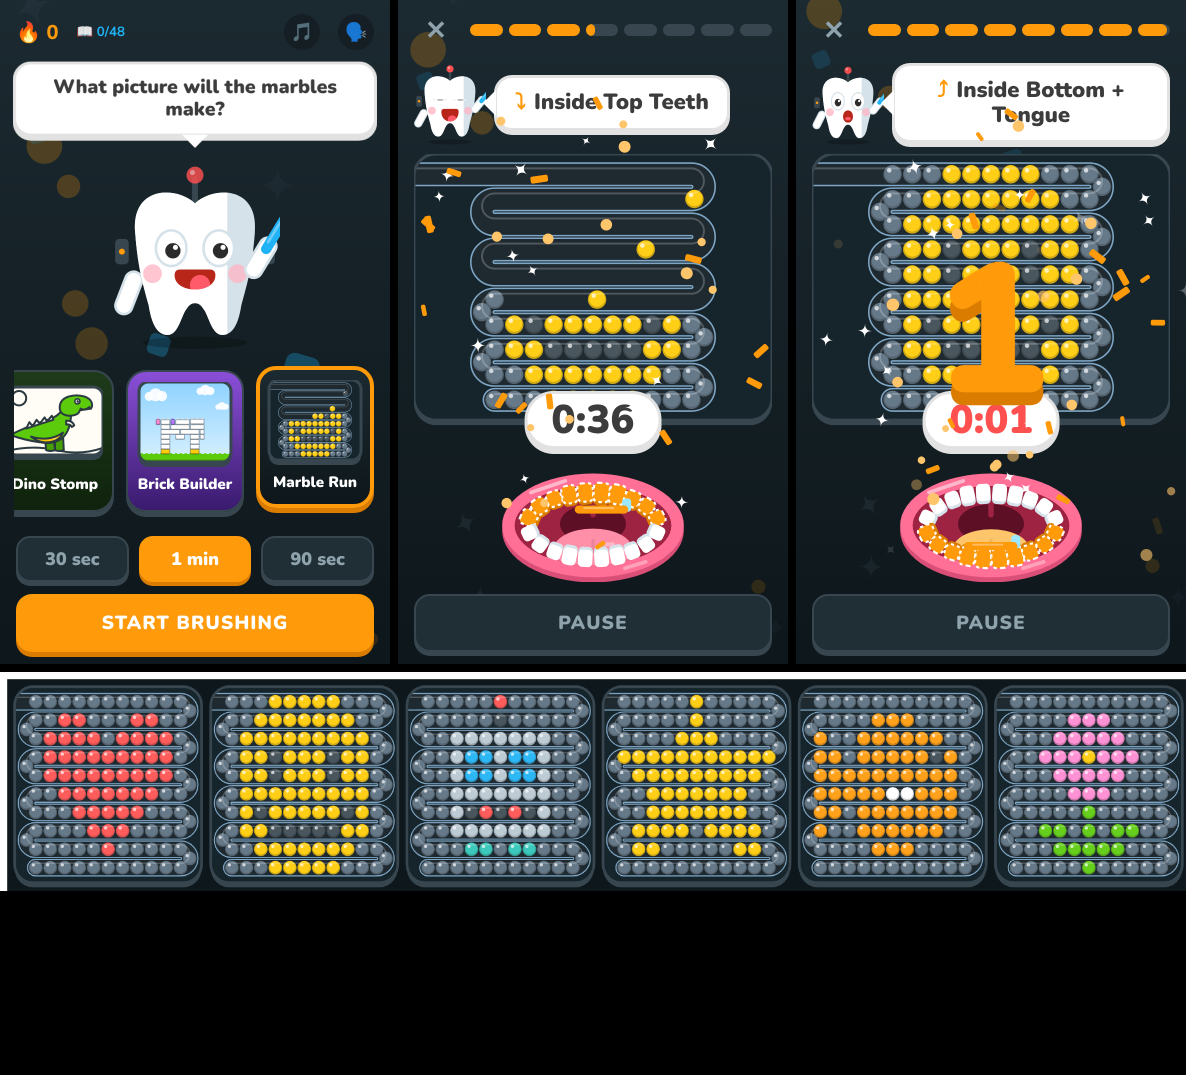
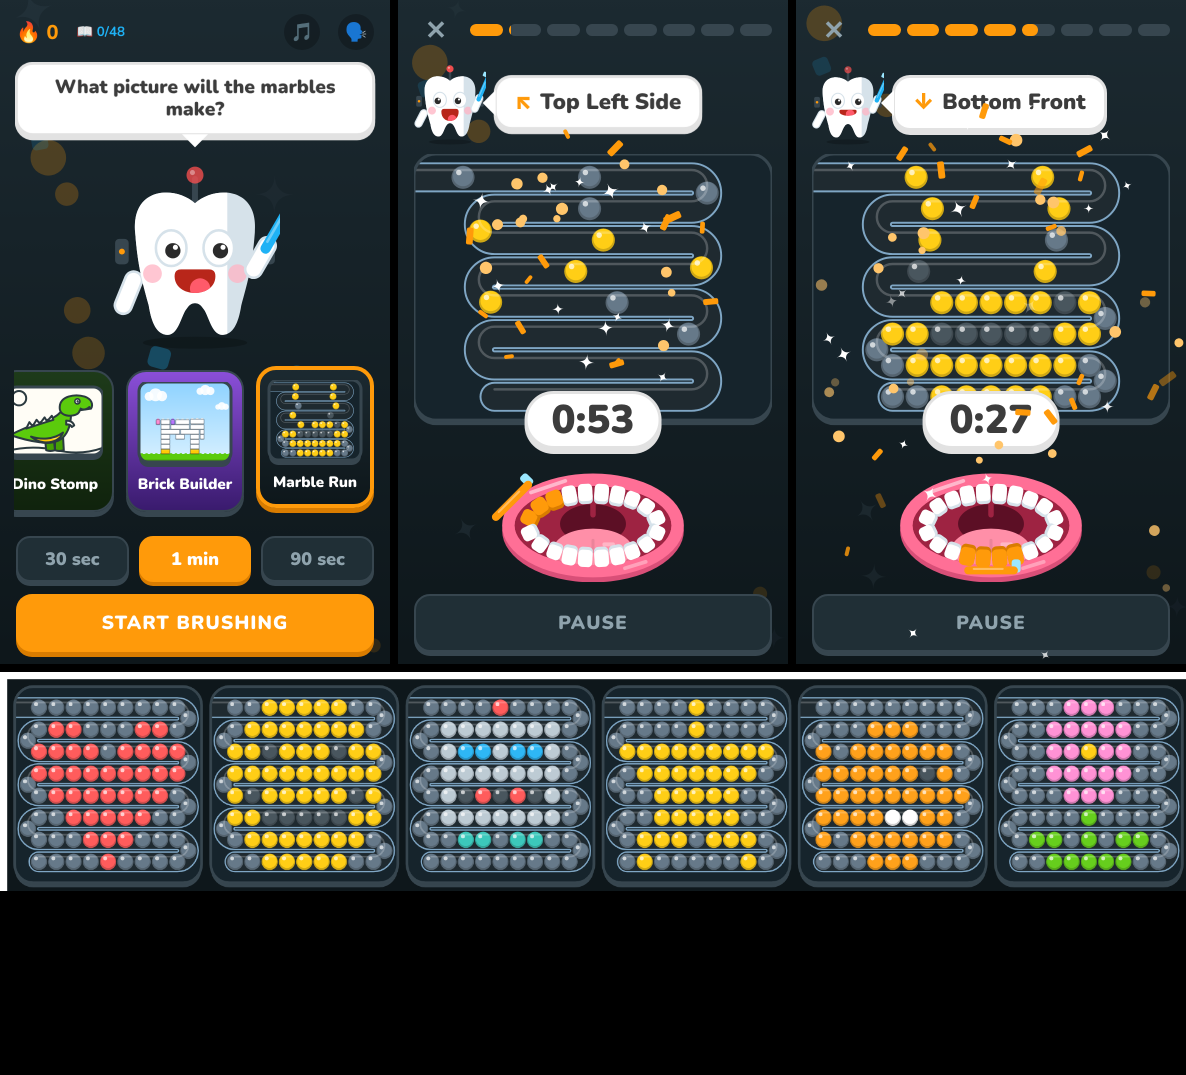
Web: Marble Run with bigger marbles rolling as a gentle stream
Tube is now 9x8 (79 marbles instead of 119), so marbles and tube are larger.
Marbles roll at a steady, slower speed as a stream instead of each one
sprinting the whole tube: the first takes about a fifth of the timer to
reach the bottom, then the rest arrive evenly until the tube is full.

Claude-Session: https://claude.ai/code/session_01DcateeMTnru1jWATFfvpC7

diff --git a/docs/app.js b/docs/app.js
@@ -1582,16 +1582,16 @@ function drawBrickTimer(ctx, w, h, sess, t) {
 // ---- Marble Run: marbles roll down a snaking tube and line up into a picture
 const TUBE_BG = "#5B6F80";
 const TUBE_PICS = {
-  heart: ["...........", "..RR...RR..", ".RRRR.RRRR.", ".RRRRRRRRR.", ".RRRRRRRRR.", "..RRRRRRR..", "...RRRRR...", "....RRR....", ".....R.....", "..........."],
-  smiley: ["...YYYYY...", "..YYYYYYY..", ".YYYYYYYYY.", ".YYDYYYDYY.", ".YYDYYYDYY.", ".YYYYYYYYY.", ".YDYYYYYDY.", ".YYDDDDDYY.", "..YYYYYYY..", "...YYYYY..."],
-  robot: [".....R.....", ".....D.....", "..LLLLLLL..", "..LBBLBBL..", "..LBBLBBL..", "..LLLLLLL..", "..LDRDRDL..", "..LLLLLLL..", "...TT.TT...", "..........."],
-  star: [".....Y.....", ".....Y.....", "....YYY....", "YYYYYYYYYYY", ".YYYYYYYYY.", "..YYYYYYY..", "..YYYYYYY..", ".YYYY.YYYY.", ".YY.....YY.", "..........."],
-  fish: ["...........", "....OOO....", "O..OOOOOO..", "OO.OOOOODO.", "OOOOOOOOOO.", "OOOOOWWOOO.", "OO.OOOOOOO.", "O..OOOOOO..", "....OOO....", "..........."],
-  flower: ["...........", "....KKK....", "...KKKKK...", "..KKKYKKK..", "...KKKKK...", "....KKK....", ".....G.....", "..GG.G.GG..", "...GGGGG...", ".....G....."],
+  heart: [".........", ".RR...RR.", "RRRR.RRRR", "RRRRRRRRR", ".RRRRRRR.", "..RRRRR..", "...RRR...", "....R...."],
+  smiley: ["..YYYYY..", ".YYYYYYY.", "YYDYYYDYY", "YYYYYYYYY", "YDYYYYYDY", "YYDDDDDYY", ".YYYYYYY.", "..YYYYY.."],
+  robot: ["....R....", ".LLLLLLL.", ".LBBLBBL.", ".LLLLLLL.", ".LDRDRDL.", ".LLLLLLL.", "..TT.TT..", "........."],
+  star: ["....Y....", "....Y....", "YYYYYYYYY", ".YYYYYYY.", "..YYYYY..", "..YYYYY..", ".YYY.YYY.", ".Y.....Y."],
+  fish: [".........", "...OOO...", "O.OOOOOO.", "OOOOOODO.", "OOOOOOOOO", "OOOOWWOO.", "O.OOOOOO.", "...OOO..."],
+  flower: ["...KKK...", "..KKKKK..", "..KKYKK..", "..KKKKK..", "...KKK...", "....G....", ".GG.G.GG.", "..GGGGG.."],
 };
 const TUBE_ORDER = ["heart", "smiley", "robot", "star", "fish", "flower"];
 function tubeGeometry(x, y, w, h) {
-  const C = 11, R = 10, d = Math.min(w * 0.95 / (C + 1.273), h * 0.94 / ((R - 1) * 1.273 + 1.25)), s = d * 4 / Math.PI;   // bend arc = exactly 2 marbles
+  const C = 9, R = 8, d = Math.min(w * 0.95 / (C + 1.273), h * 0.94 / ((R - 1) * 1.273 + 1.25)), s = d * 4 / Math.PI;   // bend arc = exactly 2 marbles
   const xl = x + (w - (C - 1) * d) / 2, xr = xl + (C - 1) * d, y0 = y + (h - ((R - 1) * s)) / 2;
   const startX = x - d, lead = xl - startX, rowLen = (C + 1) * d;
   const N = R * C + (R - 1), total = lead + (R - 1) * rowLen + (C - 1) * d;
@@ -1641,10 +1641,13 @@ function drawMarbleTube(ctx, id, x, y, w, h, e, duration, t) {
   G.path(ctx); ctx.lineWidth = d * 1.22; ctx.strokeStyle = "#7FA6C4"; ctx.stroke();
   G.path(ctx); ctx.lineWidth = d * 1.06; ctx.strokeStyle = "#0E1A21"; ctx.stroke();
   // marbles: marble i ends in slot N-1-i, so the tube fills from the bottom end backward
-  const finish = duration * 0.985, speed = G.total / 2.4;
+  // A steady stream at a gentle rolling speed: the first marble takes a while to wind down to the bottom,
+  // then the rest keep arriving one after another until the tube is full.
+  const finish = duration * 0.985, firstTrip = Math.min(duration * 0.2, 14), speed = G.slotDist(G.N - 1) / firstTrip;
+  const gapTime = (finish - firstTrip) / (G.N - 1);
   let landed = 0;
   for (let i = 0; i < G.N; i++) {
-    const k = G.N - 1 - i, target = G.slotDist(k), land = (i + 1) / G.N * finish, enter = land - target / speed;
+    const k = G.N - 1 - i, target = G.slotDist(k), land = firstTrip + i * gapTime, enter = land - target / speed;
     if (e < enter) break;
     const dist = Math.min((e - enter) * speed, target);
     if (e >= land) landed++;

diff --git a/web/app.js b/web/app.js
@@ -1582,16 +1582,16 @@ function drawBrickTimer(ctx, w, h, sess, t) {
 // ---- Marble Run: marbles roll down a snaking tube and line up into a picture
 const TUBE_BG = "#5B6F80";
 const TUBE_PICS = {
-  heart: ["...........", "..RR...RR..", ".RRRR.RRRR.", ".RRRRRRRRR.", ".RRRRRRRRR.", "..RRRRRRR..", "...RRRRR...", "....RRR....", ".....R.....", "..........."],
-  smiley: ["...YYYYY...", "..YYYYYYY..", ".YYYYYYYYY.", ".YYDYYYDYY.", ".YYDYYYDYY.", ".YYYYYYYYY.", ".YDYYYYYDY.", ".YYDDDDDYY.", "..YYYYYYY..", "...YYYYY..."],
-  robot: [".....R.....", ".....D.....", "..LLLLLLL..", "..LBBLBBL..", "..LBBLBBL..", "..LLLLLLL..", "..LDRDRDL..", "..LLLLLLL..", "...TT.TT...", "..........."],
-  star: [".....Y.....", ".....Y.....", "....YYY....", "YYYYYYYYYYY", ".YYYYYYYYY.", "..YYYYYYY..", "..YYYYYYY..", ".YYYY.YYYY.", ".YY.....YY.", "..........."],
-  fish: ["...........", "....OOO....", "O..OOOOOO..", "OO.OOOOODO.", "OOOOOOOOOO.", "OOOOOWWOOO.", "OO.OOOOOOO.", "O..OOOOOO..", "....OOO....", "..........."],
-  flower: ["...........", "....KKK....", "...KKKKK...", "..KKKYKKK..", "...KKKKK...", "....KKK....", ".....G.....", "..GG.G.GG..", "...GGGGG...", ".....G....."],
+  heart: [".........", ".RR...RR.", "RRRR.RRRR", "RRRRRRRRR", ".RRRRRRR.", "..RRRRR..", "...RRR...", "....R...."],
+  smiley: ["..YYYYY..", ".YYYYYYY.", "YYDYYYDYY", "YYYYYYYYY", "YDYYYYYDY", "YYDDDDDYY", ".YYYYYYY.", "..YYYYY.."],
+  robot: ["....R....", ".LLLLLLL.", ".LBBLBBL.", ".LLLLLLL.", ".LDRDRDL.", ".LLLLLLL.", "..TT.TT..", "........."],
+  star: ["....Y....", "....Y....", "YYYYYYYYY", ".YYYYYYY.", "..YYYYY..", "..YYYYY..", ".YYY.YYY.", ".Y.....Y."],
+  fish: [".........", "...OOO...", "O.OOOOOO.", "OOOOOODO.", "OOOOOOOOO", "OOOOWWOO.", "O.OOOOOO.", "...OOO..."],
+  flower: ["...KKK...", "..KKKKK..", "..KKYKK..", "..KKKKK..", "...KKK...", "....G....", ".GG.G.GG.", "..GGGGG.."],
 };
 const TUBE_ORDER = ["heart", "smiley", "robot", "star", "fish", "flower"];
 function tubeGeometry(x, y, w, h) {
-  const C = 11, R = 10, d = Math.min(w * 0.95 / (C + 1.273), h * 0.94 / ((R - 1) * 1.273 + 1.25)), s = d * 4 / Math.PI;   // bend arc = exactly 2 marbles
+  const C = 9, R = 8, d = Math.min(w * 0.95 / (C + 1.273), h * 0.94 / ((R - 1) * 1.273 + 1.25)), s = d * 4 / Math.PI;   // bend arc = exactly 2 marbles
   const xl = x + (w - (C - 1) * d) / 2, xr = xl + (C - 1) * d, y0 = y + (h - ((R - 1) * s)) / 2;
   const startX = x - d, lead = xl - startX, rowLen = (C + 1) * d;
   const N = R * C + (R - 1), total = lead + (R - 1) * rowLen + (C - 1) * d;
@@ -1641,10 +1641,13 @@ function drawMarbleTube(ctx, id, x, y, w, h, e, duration, t) {
   G.path(ctx); ctx.lineWidth = d * 1.22; ctx.strokeStyle = "#7FA6C4"; ctx.stroke();
   G.path(ctx); ctx.lineWidth = d * 1.06; ctx.strokeStyle = "#0E1A21"; ctx.stroke();
   // marbles: marble i ends in slot N-1-i, so the tube fills from the bottom end backward
-  const finish = duration * 0.985, speed = G.total / 2.4;
+  // A steady stream at a gentle rolling speed: the first marble takes a while to wind down to the bottom,
+  // then the rest keep arriving one after another until the tube is full.
+  const finish = duration * 0.985, firstTrip = Math.min(duration * 0.2, 14), speed = G.slotDist(G.N - 1) / firstTrip;
+  const gapTime = (finish - firstTrip) / (G.N - 1);
   let landed = 0;
   for (let i = 0; i < G.N; i++) {
-    const k = G.N - 1 - i, target = G.slotDist(k), land = (i + 1) / G.N * finish, enter = land - target / speed;
+    const k = G.N - 1 - i, target = G.slotDist(k), land = firstTrip + i * gapTime, enter = land - target / speed;
     if (e < enter) break;
     const dist = Math.min((e - enter) * speed, target);
     if (e >= land) landed++;
